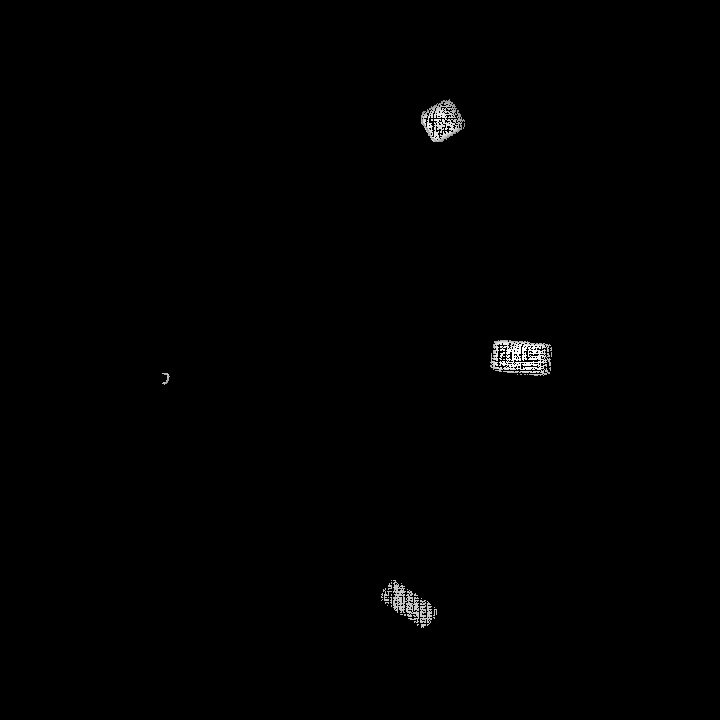
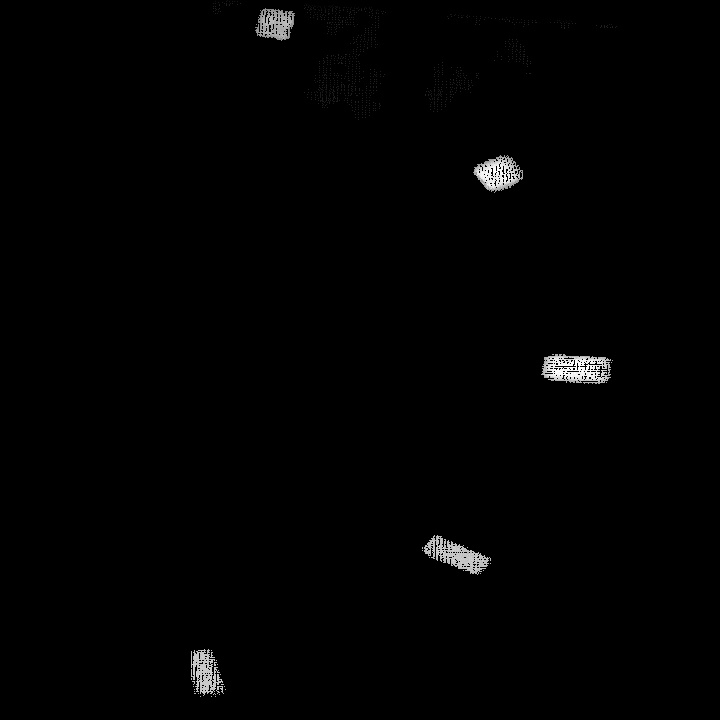
new calibration with higher camera

diff --git a/depth_perception/src/depth_perception.cpp b/depth_perception/src/depth_perception.cpp
@@ -115,7 +115,7 @@ class DepthImage
       //cv_nf = cv::Mat(50, 50, CV_32FC1,cv::Scalar(std::numeric_limits<float>::min()));
       //cv_image = cv::Mat(1024, 1024, CV_32FC1,cv::Scalar(0));
       count = 0;
-      threshold = 25;
+      threshold = 50;
       start = false;
       threshold_change = 50;
     }
@@ -494,6 +494,8 @@ class DepthImage
             std::cout<<"first time\n";
             std::string name_state = "/home/altair/interbotix_ws/src/depth_perception/states/state_0.jpg";
             cv::imwrite(name_state, final_image);
+            cv::imwrite("/home/altair/interbotix_ws/src/depth_perception/calibration_res.jpg", res);
+            cv::imwrite("/home/altair/interbotix_ws/src/depth_perception/calibration_fil.jpg", fil);
             std_msgs::Bool msg;
             msg.data = true;
             pub_new_state.publish(msg);
